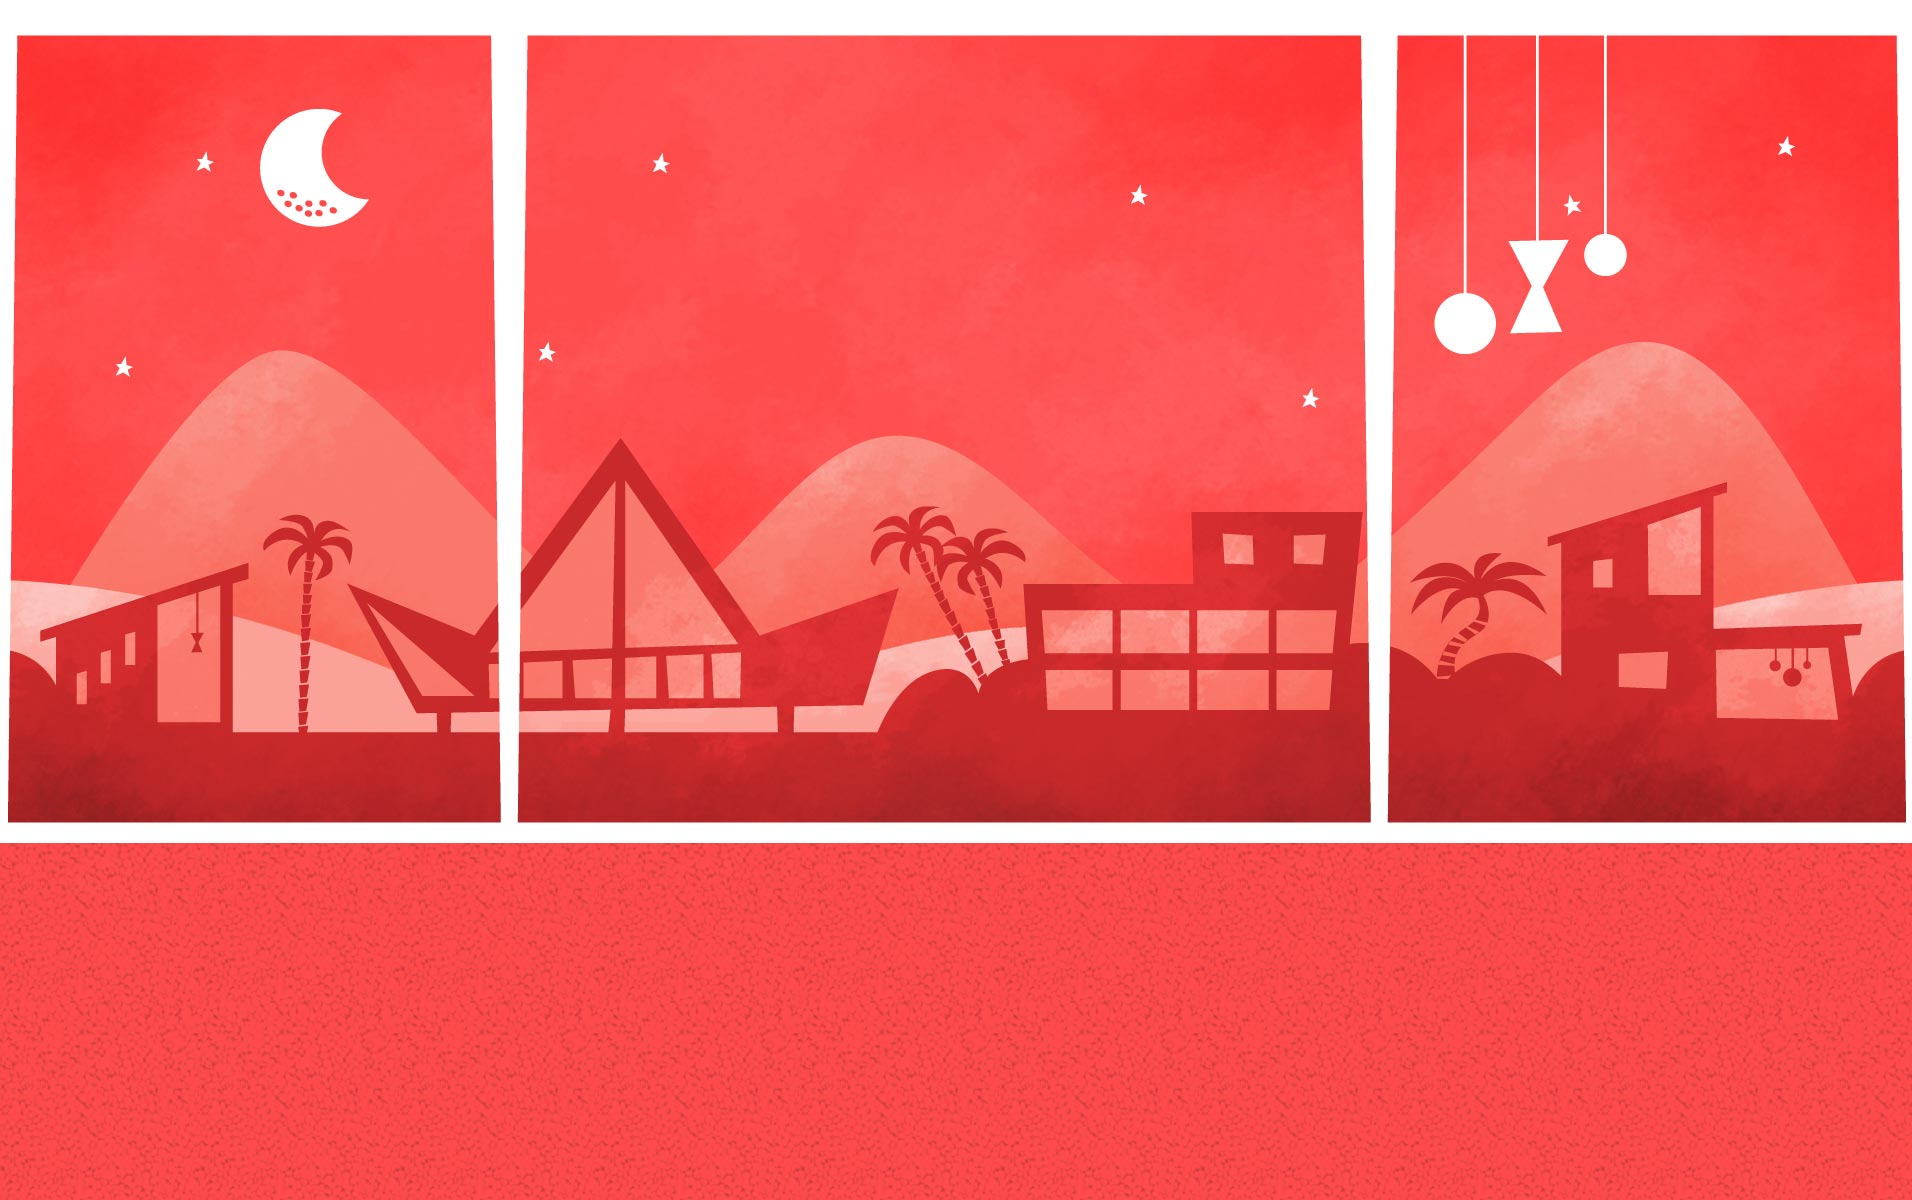
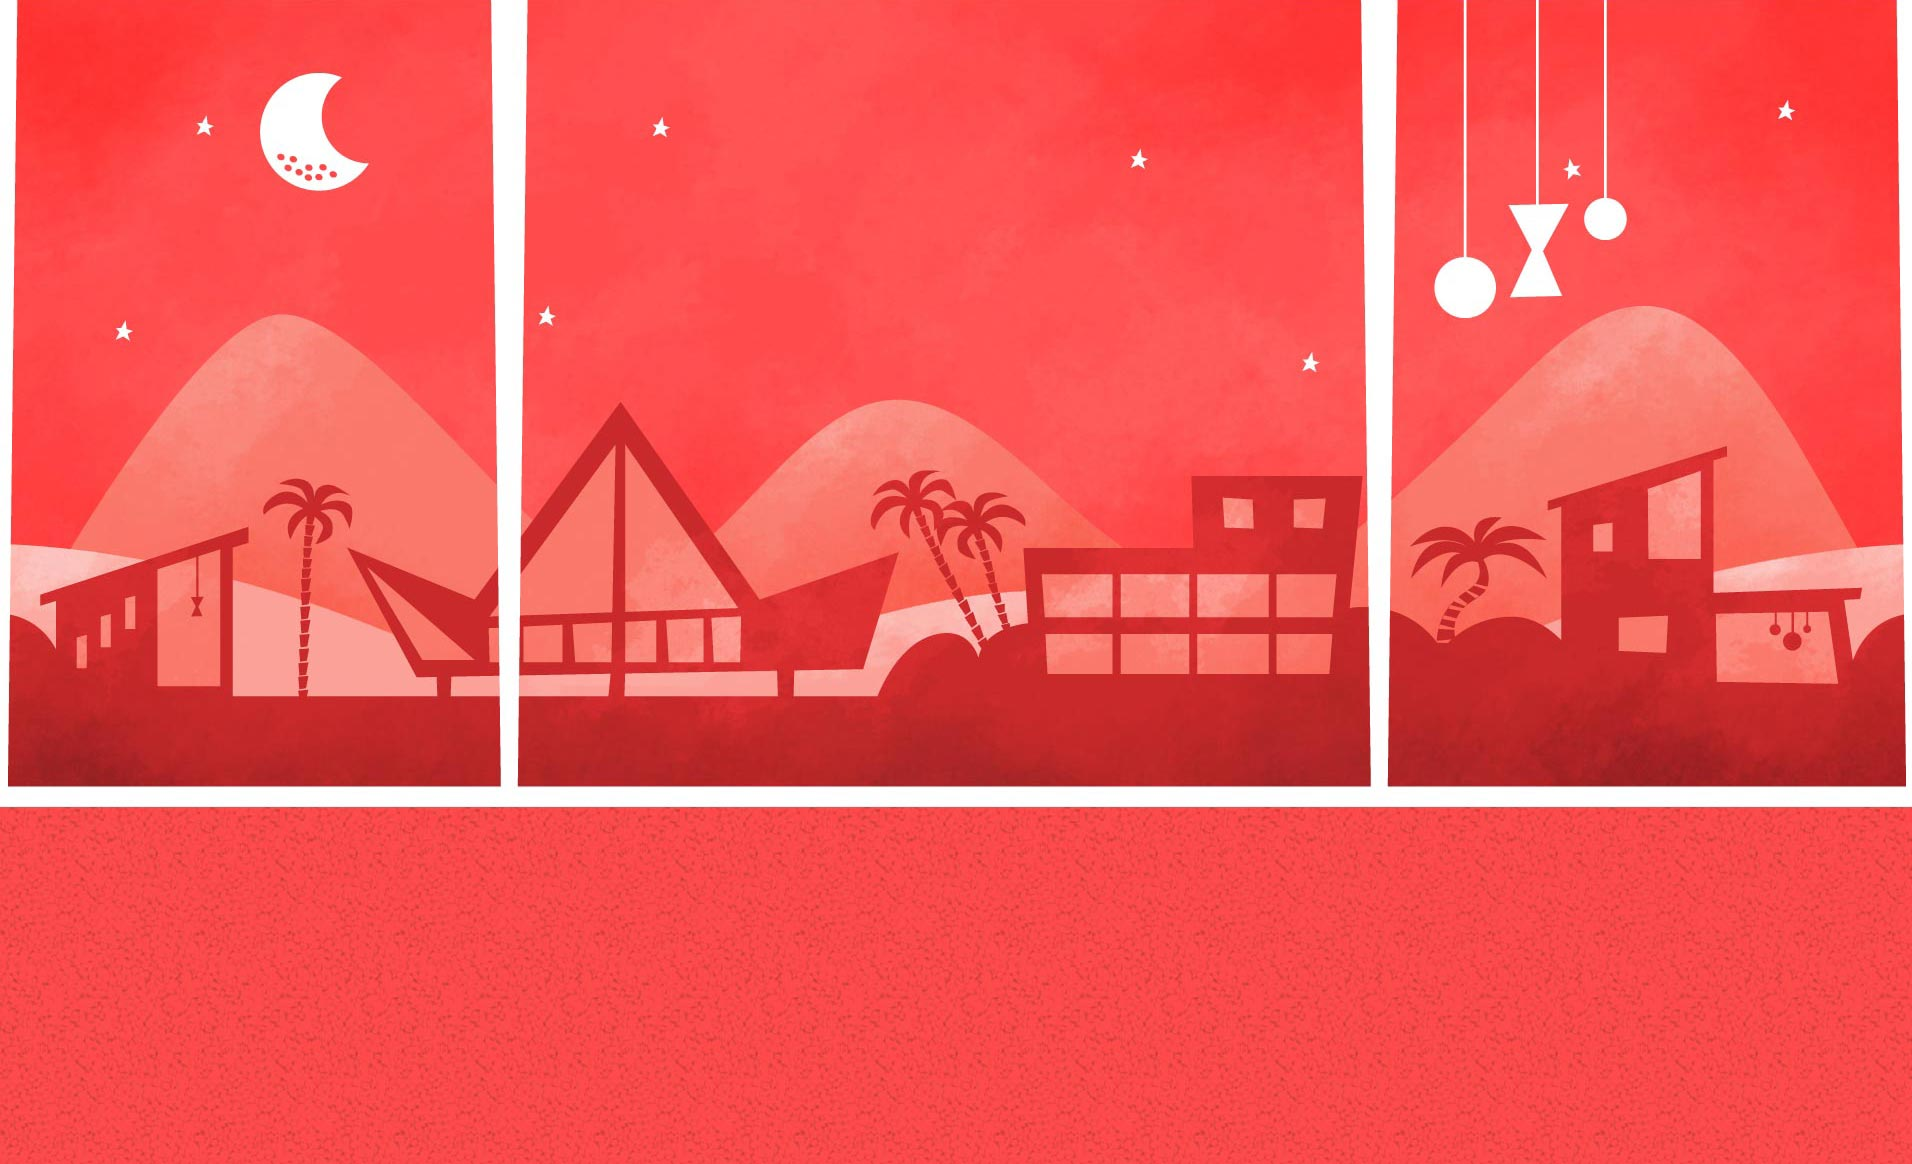
added borders

diff --git a/assets/css/lib/pages.scss b/assets/css/lib/pages.scss
@@ -1,3 +1,14 @@
+%page-divider {
+  border: 0px;
+
+  position: absolute;
+  bottom: 0;
+  left: 0;
+  right: 0;
+  margin: 0;
+  padding: 0;
+  height: 14px;
+}
 
 .pages {
   -webkit-perspective: 1200px;
@@ -37,6 +48,12 @@
   @extend %page;
   padding-bottom: 500px;
   background-image: url(/img/page-main.jpg);
+
+  .page-divider {
+    @extend %page-divider;
+
+    background-color: hsl(194, 100%, 34%);
+  }
 }
 
 .page-about {
@@ -44,24 +61,48 @@
   padding-bottom: 500px;
   background-image: url(/img/page-about.jpg);
   background-image: url(/img/page-about-alt.jpg);
+
+  .page-divider {
+    @extend %page-divider;
+
+    background-color: hsl(346, 100%, 34%);
+  }
 }
 
 .page-schedule {
   @extend %page;
 
   background-image: url(/img/page-schedule.jpg);
+
+  .page-divider {
+    @extend %page-divider;
+
+    background-color: hsl(131, 75%, 22%);
+  }
 }
 
 .page-register {
   @extend %page;
 
   background-image: url(/img/page-register.jpg);
+
+  .page-divider {
+    @extend %page-divider;
+
+    background-color: hsl(41, 94%, 20%);
+  }
 }
 
 .page-sponsors {
   @extend %page;
 
   background-image: url(/img/page-sponsors.jpg);
+
+  .page-divider {
+    @extend %page-divider;
+
+    background-color: hsl(296, 83%, 19%);
+  }
 }
 
 .btn-primary {

diff --git a/public/index.html b/public/index.html
@@ -47,6 +47,8 @@
         <a href="#" class="next-section">&darr;</a>
       </div>
       <div class="main-bear animated"></div>
+
+      <hr class="page-divider" />
     </div>
 
     <div id="about" class="page-about" data-page="about">
@@ -69,6 +71,8 @@
         </div>
       </div>
       <div class="about-bear animated"></div>
+
+      <hr class="page-divider" />
     </div>
 
     <div id="schedule" class="page-schedule" data-page="schedule">
@@ -157,6 +161,8 @@
       </div>
 
       <div class="schedule-bear animated"></div>
+
+      <hr class="page-divider" />
     </div>
 
     <div id="register" class="page-register" data-page="register">
@@ -164,6 +170,8 @@
         <span class="page-title">Register</span>
       </h2>
       <div class="register-bear animated"></div>
+
+      <hr class="page-divider" />
     </div>
 
     <div id="sponsors" class="page-sponsors" data-page="sponsors">
@@ -224,6 +232,8 @@
 
       </div>
       <div class="sponsors-bear animated"></div>
+
+      <hr class="page-divider" />
     </div>
 
   <script src="/js/app.js"></script>

diff --git a/assets/css/components/general.scss b/assets/css/components/general.scss
@@ -10,7 +10,7 @@
 }
 
 %page {
-  // background-size: cover;
+  background-size: cover;
   background-repeat: no-repeat;
   background-position: center center;
 
